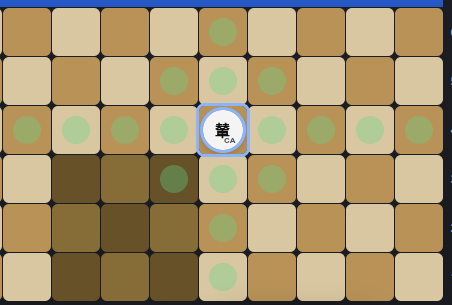
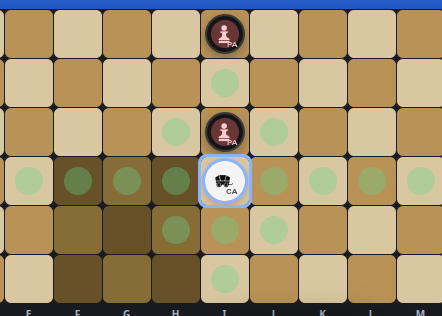
visual bug solved and ai improved

diff --git a/engine/ai/memory.js b/engine/ai/memory.js
@@ -1,4 +1,5 @@
 import { SIDE, isPalaceSquare, onBank } from '../constants.js';
+import { findKings } from '../rules/board.js';
 
 const LEARNING_RATE      = 0.12;
 const MAX_MEMORY_SIZE    = 3000;
@@ -18,17 +19,111 @@ export function extractFeatures(state, side) {
   let curseActive = state.palaceCurse?.[side]?.active ? 1 : 0;
   let enemyCurseActive = state.palaceCurse?.[enemy]?.active ? 1 : 0;
 
+  let ownPieces = 0, enemyPieces = 0;
+  let ownCrossed = 0, enemyCrossed = 0;
+  let ownArchers = 0, enemyArchers = 0;
+  let ownHeavy = 0, enemyHeavy = 0;
+  let ownTowers = 0, enemyTowers = 0;
+  let ownCannons = 0, enemyCannons = 0;
+  let kingOutsidePalace = 0, enemyKingOutsidePalace = 0;
+  let ownCenterCtrl = 0, enemyCenterCtrl = 0;
+  let ownPalaceDef = 0, enemyPalaceDef = 0;
+  let ownPromoted = 0, enemyPromoted = 0;
+  let ownAdvPawns = 0, enemyAdvPawns = 0;
+  let ownNearPromo = 0, enemyNearPromo = 0;
+  let ownKingCol = -1, enemyKingCol = -1;
+  let ownKingRow = -1, enemyKingRow = -1;
+
+  // Kings facing (flying general rule): same row/col/diag with clear line
+  let kingsFacing = 0;
+  const kings = findKings(board);
+  if (kings?.[side] && kings?.[enemy]) {
+    const k1 = kings[side], k2 = kings[enemy];
+    ownKingRow = k1.r; ownKingCol = k1.c;
+    enemyKingRow = k2.r; enemyKingCol = k2.c;
+    const dr = Math.sign(k2.r - k1.r);
+    const dc = Math.sign(k2.c - k1.c);
+    const sameRow = dr === 0 && dc !== 0;
+    const sameCol = dc === 0 && dr !== 0;
+    const sameDiag = dr !== 0 && dc !== 0 && Math.abs(k2.r - k1.r) === Math.abs(k2.c - k1.c);
+    if (sameRow || sameCol || sameDiag) {
+      let clear = true;
+      let cr = k1.r + dr, cc = k1.c + dc;
+      while (cr !== k2.r || cc !== k2.c) {
+        if (board[cr]?.[cc]) { clear = false; break; }
+        cr += dr; cc += dc;
+      }
+      if (clear) kingsFacing = 1;
+    }
+  }
+
+  // Reserve composition tracking
+  let ownTowersInReserve = 0, ownGeneralsInReserve = 0, ownPawnsInReserve = 0;
+  let enemyTowersInReserve = 0, enemyGeneralsInReserve = 0, enemyPawnsInReserve = 0;
+  for (const p of state.reserves[side] || []) {
+    if (p.type === 'tower') ownTowersInReserve++;
+    else if (p.type === 'general') ownGeneralsInReserve++;
+    else if (p.type === 'pawn' || p.type === 'crossbow') ownPawnsInReserve++;
+  }
+  for (const p of state.reserves[enemy] || []) {
+    if (p.type === 'tower') enemyTowersInReserve++;
+    else if (p.type === 'general') enemyGeneralsInReserve++;
+    else if (p.type === 'pawn' || p.type === 'crossbow') enemyPawnsInReserve++;
+  }
+
   for (let r = 0; r < 13; r++) {
     for (let c = 0; c < 13; c++) {
       const p = board[r][c];
       if (!p) continue;
       if (p.side === side) {
-        if (p.type === 'archer' && onBank(side, r)) archerOnBank++;
-        if (isPalaceSquare(r, c, enemy)) palacePressure++;
+        ownPieces++;
+        if (p.type === 'king') {
+          if (!isPalaceSquare(r, c, side)) kingOutsidePalace = 1;
+        } else {
+          if (p.type === 'archer') { ownArchers++; if (onBank(side, r)) archerOnBank++; }
+          else if (p.type === 'tower') ownTowers++;
+          else if (p.type === 'cannon') ownCannons++;
+          else if (['queen','general'].includes(p.type)) ownHeavy++;
+          const crossed = side === SIDE.BLACK ? (r <= 5) : (r >= 7);
+          if (crossed) ownCrossed++;
+          if (isPalaceSquare(r, c, enemy)) palacePressure++;
+          const centerDist = Math.abs(r-6) + Math.abs(c-6);
+          if (centerDist <= 4) ownCenterCtrl++;
+          if (isPalaceSquare(r, c, side)) ownPalaceDef++;
+          if (p.promoted) ownPromoted++;
+          if (p.type === 'pawn' && !p.promoted) {
+            const fromOwn = side === SIDE.WHITE ? r : 12 - r;
+            if (fromOwn >= 5) ownAdvPawns++;
+            const inPromoZone = side === SIDE.BLACK ? r >= 10 : r <= 2;
+            if (inPromoZone) ownNearPromo++;
+          }
+        }
+      } else {
+        enemyPieces++;
+        if (p.type === 'king') {
+          if (!isPalaceSquare(r, c, enemy)) enemyKingOutsidePalace = 1;
+        } else {
+          if (p.type === 'archer') enemyArchers++;
+          else if (p.type === 'tower') enemyTowers++;
+          else if (p.type === 'cannon') enemyCannons++;
+          else if (['queen','general'].includes(p.type)) enemyHeavy++;
+          const crossed = enemy === SIDE.BLACK ? (r <= 5) : (r >= 7);
+          if (crossed) enemyCrossed++;
+          const centerDist = Math.abs(r-6) + Math.abs(c-6);
+          if (centerDist <= 4) enemyCenterCtrl++;
+          if (isPalaceSquare(r, c, enemy)) enemyPalaceDef++;
+          if (p.promoted) enemyPromoted++;
+          if (p.type === 'pawn' && !p.promoted) {
+            const fromOwn = enemy === SIDE.WHITE ? r : 12 - r;
+            if (fromOwn >= 5) enemyAdvPawns++;
+            const inPromoZone = enemy === SIDE.BLACK ? r >= 10 : r <= 2;
+            if (inPromoZone) enemyNearPromo++;
+          }
+        }
       }
     }
   }
-  return `ap:${archerOnBank}|pp:${Math.min(palacePressure,3)}|r:${reserveCount}|er:${enemyReserveCount}|pt:${palaceTaken}|ept:${enemyPalaceTaken}|cu:${curseActive}|ecu:${enemyCurseActive}`;
+  return `ap:${archerOnBank}|pp:${Math.min(palacePressure,3)}|r:${reserveCount}|er:${enemyReserveCount}|pt:${palaceTaken}|ept:${enemyPalaceTaken}|cu:${curseActive}|ecu:${enemyCurseActive}|ko:${kingOutsidePalace}|eko:${enemyKingOutsidePalace}|ac:${ownArchers}|eac:${enemyArchers}|hv:${Math.min(ownHeavy,3)}|ehv:${Math.min(enemyHeavy,3)}|xc:${Math.min(ownCrossed,5)}|exc:${Math.min(enemyCrossed,5)}|cc:${Math.min(ownCenterCtrl,3)}|ecc:${Math.min(enemyCenterCtrl,3)}|pd:${Math.min(ownPalaceDef,3)}|epd:${Math.min(enemyPalaceDef,3)}|kf:${kingsFacing}|tw:${Math.min(ownTowers,2)}|etw:${Math.min(enemyTowers,2)}|cn:${Math.min(ownCannons,2)}|ecn:${Math.min(enemyCannons,2)}|pro:${Math.min(ownPromoted,3)}|epro:${Math.min(enemyPromoted,3)}|apw:${Math.min(ownAdvPawns,3)}|eapw:${Math.min(enemyAdvPawns,3)}|npz:${ownNearPromo}|enpz:${enemyNearPromo}|rtr:${ownTowersInReserve}|rgr:${ownGeneralsInReserve}|rpr:${ownPawnsInReserve}|ertr:${enemyTowersInReserve}|ergr:${enemyGeneralsInReserve}|erpr:${enemyPawnsInReserve}|krc:${ownKingCol}|ekc:${enemyKingCol}`;
 }
 
 export class AdaptiveMemory {

diff --git a/engine/ai/evaluation.js b/engine/ai/evaluation.js
@@ -1,5 +1,5 @@
 import { dbg } from '../debug/debug.js';
-import { SIDE, isPalaceSquare, opponent, onBank } from '../constants.js';
+import { SIDE, isPalaceSquare, opponent, onBank, isOwnSide, inBounds } from '../constants.js';
 import { isKingInCheck } from '../rules/index.js';
 import { adaptiveMemory, extractFeatures } from './memory.js';
 import { pieceValue } from './moves.js';
@@ -149,7 +149,7 @@ function reserveValue(state, side) {
   return state.reserves[side].reduce((s, p) => {
     const urgency = p.type === 'tower'    ? 1.6
                   : p.type === 'general'  ? 1.6
-                  : p.type === 'crossbow' ? 1.2
+                  : p.type === 'crossbow' ? 1.4
                   : 1.0; // pawn
     return s + pieceValue(p) * urgency;
   }, 0);
@@ -360,6 +360,7 @@ export function evaluate(state, hash, precomputedMaps = null) {
 export function buildAttackMap(board, side) {
   const attackMap = new Map(), mobilityCount = { total: 0 }, byPiece = new Map();
   let kingPos = null;
+  let enemyKingPos = null;
   const mark = (r, c, fromKey) => {
     if (r < 0 || r >= 13 || c < 0 || c >= 13) return;
     const k = `${r},${c}`; attackMap.set(k, (attackMap.get(k) ?? 0) + 1); mobilityCount.total++;
@@ -369,41 +370,72 @@ export function buildAttackMap(board, side) {
   for (let r = 0; r < 13; r++) {
     for (let c = 0; c < 13; c++) {
       const p = board[r][c];
-      if (!p || p.side !== side) continue;
-      const fk = `${r},${c}`; if (p.type === 'king') kingPos = { r, c };
-      const ray = (dr, dc) => { let nr = r+dr, nc = c+dc; while (nr>=0&&nr<13&&nc>=0&&nc<13) { mark(nr,nc,fk); if (board[nr][nc]) break; nr+=dr; nc+=dc; } };
-      const jump = deltas => { for (const [dr,dc] of deltas) mark(r+dr, c+dc, fk); };
-      switch (p.type) {
-        case 'queen': ray(1,0); ray(-1,0); ray(0,1); ray(0,-1); ray(1,1); ray(1,-1); ray(-1,1); ray(-1,-1); break;
-        case 'tower':
-          if (p.promoted) {
-            for (const [dr,dc] of [[0,1],[0,-1],[-1,1],[1,-1]]) {
-              let nr = r+dr, nc = c+dc;
-              while (nr>=0&&nr<13&&nc>=0&&nc<13) { mark(nr,nc,fk); if (board[nr][nc]) break; nr+=dr; nc+=dc; }
+      if (!p) continue;
+      if (p.side === side) {
+        const fk = `${r},${c}`; if (p.type === 'king') kingPos = { r, c };
+        const ray = (dr, dc) => { let nr = r+dr, nc = c+dc; while (nr>=0&&nr<13&&nc>=0&&nc<13) { mark(nr,nc,fk); if (board[nr][nc]) break; nr+=dr; nc+=dc; } };
+        const jump = deltas => { for (const [dr,dc] of deltas) mark(r+dr, c+dc, fk); };
+        switch (p.type) {
+          case 'queen': ray(1,0); ray(-1,0); ray(0,1); ray(0,-1); ray(1,1); ray(1,-1); ray(-1,1); ray(-1,-1); break;
+          case 'tower':
+            if (p.promoted) {
+              for (const [dr,dc] of [[0,1],[0,-1],[-1,1],[1,-1]]) {
+                let nr = r+dr, nc = c+dc;
+                while (nr>=0&&nr<13&&nc>=0&&nc<13) { mark(nr,nc,fk); if (board[nr][nc]) break; nr+=dr; nc+=dc; }
+              }
+            } else {
+              ray(1,0); ray(-1,0); ray(0,1); ray(0,-1);
             }
-          } else {
-            ray(1,0); ray(-1,0); ray(0,1); ray(0,-1);
+            break;
+          case 'priest': ray(1,1); ray(1,-1); ray(-1,1); ray(-1,-1); mark(r+f,c,fk); mark(r-f,c,fk); break;
+          case 'cannon': {
+            for (const [dr,dc] of [[1,0],[-1,0],[0,1],[0,-1]]) {
+              let seen=0, nr=r+dr, nc=c+dc;
+              while (nr>=0&&nr<13&&nc>=0&&nc<13) {
+                if (!board[nr][nc]) { if (seen===0) mark(nr,nc,fk); }
+                else { seen++; if (seen===2) { mark(nr,nc,fk); break; } }
+                nr+=dr; nc+=dc;
+              }
+            } break;
           }
-          break;
-        case 'priest': ray(1,1); ray(1,-1); ray(-1,1); ray(-1,-1); mark(r+f,c,fk); mark(r-f,c,fk); break;
-        case 'cannon': {
-          for (const [dr,dc] of [[1,0],[-1,0],[0,1],[0,-1]]) {
-            let seen=0, nr=r+dr, nc=c+dc;
-            while (nr>=0&&nr<13&&nc>=0&&nc<13) {
-              if (!board[nr][nc]) { if (seen===0) mark(nr,nc,fk); }
-              else { seen++; if (seen===2) { mark(nr,nc,fk); break; } }
-              nr+=dr; nc+=dc;
-            }
-          } break;
+          case 'king': for (let dr=-1;dr<=1;dr++) for (let dc=-1;dc<=1;dc++) { if (dr===0&&dc===0) continue; for (let step=1;step<=2;step++) { const nr=r+dr*step, nc=c+dc*step; if (nr<0||nr>=13||nc<0||nc>=13) break; mark(nr,nc,fk); if (board[nr][nc]) break; } } break;
+          case 'general': jump([[2,1],[2,-1],[-2,1],[-2,-1],[1,2],[1,-2],[-1,2],[-1,-2]]); for (let i=1;i<=4;i++) { mark(r+i,c+i,fk); mark(r+i,c-i,fk); mark(r-i,c+i,fk); mark(r-i,c-i,fk); } break;
+          case 'horse': jump([[2,1],[2,-1],[-2,1],[-2,-1],[1,2],[1,-2],[-1,2],[-1,-2]]); break;
+          case 'elephant': jump([[f,0],[f,-1],[f,1],[-f,-1],[-f,1]]); break;
+          case 'pawn': mark(r+f,c,fk); mark(r+f,c-1,fk); mark(r+f,c+1,fk); mark(r,c-1,fk); mark(r,c+1,fk); break;
+          case 'archer': for (const [dr,dc] of [[3,1],[3,-1],[-3,1],[-3,-1],[1,3],[1,-3],[-1,3],[-1,-3]]) { const nr=r+dr, nc=c+dc; if (!inBounds(nr,nc)) continue; if (!isOwnSide(side, nr)) continue; mark(nr,nc,fk); } if (onBank(side,r)) { mark(r+f,c-1,fk); mark(r+f,c,fk); mark(r+f,c+1,fk); } break;
+          case 'carriage': for (const [dr,dc] of [[1,0],[-1,0],[0,1],[0,-1],[1,1],[1,-1],[-1,1],[-1,-1]]) for (let step=1; step<=(Math.abs(dr)+Math.abs(dc)===1?4:1); step++) { const nr=r+dr*step, nc=c+dc*step; if (!inBounds(nr,nc)) break; if (!isOwnSide(side, nr)) break; mark(nr,nc,fk); if (board[nr][nc]) break; } break;
+          case 'crossbow': jump([[1,1],[1,-1],[-1,1],[-1,-1]]); mark(r+f,c,fk); break;
         }
-        case 'king': for (let dr=-1;dr<=1;dr++) for (let dc=-1;dc<=1;dc++) { if (dr===0&&dc===0) continue; for (let step=1;step<=2;step++) { const nr=r+dr*step, nc=c+dc*step; if (nr<0||nr>=13||nc<0||nc>=13) break; mark(nr,nc,fk); if (board[nr][nc]) break; } } break;
-        case 'general': jump([[2,1],[2,-1],[-2,1],[-2,-1],[1,2],[1,-2],[-1,2],[-1,-2]]); for (let i=1;i<=4;i++) { mark(r+i,c+i,fk); mark(r+i,c-i,fk); mark(r-i,c+i,fk); mark(r-i,c-i,fk); } break;
-        case 'horse': jump([[2,1],[2,-1],[-2,1],[-2,-1],[1,2],[1,-2],[-1,2],[-1,-2]]); break;
-        case 'elephant': jump([[f,0],[f,-1],[f,1],[-f,-1],[-f,1]]); break;
-        case 'pawn': mark(r+f,c,fk); mark(r+f,c-1,fk); mark(r+f,c+1,fk); mark(r,c-1,fk); mark(r,c+1,fk); break;
-        case 'archer': jump([[3,1],[3,-1],[-3,1],[-3,-1],[1,3],[1,-3],[-1,3],[-1,-3]]); if (onBank(side,r)) { mark(r+f,c-1,fk); mark(r+f,c,fk); mark(r+f,c+1,fk); } break;
-        case 'carriage': for (const [dr,dc] of [[1,0],[-1,0],[0,1],[0,-1],[1,1],[-1,-1]]) for (let step=1; step<=(Math.abs(dr)+Math.abs(dc)===1?4:1); step++) mark(r+dr*step, c+dc*step, fk); break;
-        case 'crossbow': jump([[1,1],[1,-1],[-1,1],[-1,-1]]); mark(r+f,c,fk); break;
+      } else if (p.type === 'king') {
+        enemyKingPos = { r, c };
+      }
+    }
+  }
+  // King confrontation: if both kings face each other on a clear line
+  // (same row, same column, or same diagonal), the king "attacks" the enemy king square.
+  // ES: Confrontación de reyes: si ambos reyes se enfrentan en línea despejada
+  // (misma fila, misma columna o misma diagonal), el rey "ataca" la casilla del rey enemigo.
+  if (kingPos && enemyKingPos) {
+    const dr = Math.sign(enemyKingPos.r - kingPos.r);
+    const dc = Math.sign(enemyKingPos.c - kingPos.c);
+    const sameRow = dr === 0 && dc !== 0;
+    const sameCol = dc === 0 && dr !== 0;
+    const sameDiag = dr !== 0 && dc !== 0 && Math.abs(enemyKingPos.r - kingPos.r) === Math.abs(enemyKingPos.c - kingPos.c);
+    if (sameRow || sameCol || sameDiag) {
+      const clashKey = `${kingPos.r},${kingPos.c}`;
+      let clear = true;
+      const rr = Math.sign(enemyKingPos.r - kingPos.r);
+      const cc = Math.sign(enemyKingPos.c - kingPos.c);
+      let cr = kingPos.r + rr;
+      let cc2 = kingPos.c + cc;
+      while (cr !== enemyKingPos.r || cc2 !== enemyKingPos.c) {
+        if (board[cr][cc2]) { clear = false; break; }
+        cr += rr;
+        cc2 += cc;
+      }
+      if (clear) {
+        mark(enemyKingPos.r, enemyKingPos.c, clashKey);
       }
     }
   }

diff --git a/src/ui/piece-style-selector.js b/src/ui/piece-style-selector.js
@@ -152,17 +152,19 @@ const SVG = {
     </g>
   </svg>`,
 
-  pawn: `<svg viewBox="0 0 26 26" fill="none" xmlns="http://www.w3.org/2000/svg">
-    <!-- Head -->
-    <circle cx="13" cy="7" r="3.5" fill="currentColor" opacity=".85"/>
-    <!-- Neck -->
-    <rect x="11.5" y="10" width="3" height="2.5" fill="currentColor" opacity=".7"/>
-    <!-- Body -->
-    <path d="M8 22 L9 14 Q13 12 17 14 L18 22 Z" fill="currentColor" opacity=".75"/>
-    <!-- Base -->
-    <rect x="7" y="21" width="12" height="2.5" rx="1.2" fill="currentColor" opacity=".65"/>
+  pawn: `<svg version="1.1" xmlns="http://www.w3.org/2000/svg" viewBox="-64 -64 640 640" preserveAspectRatio="xMidYMid meet">
+    <style type="text/css">
+      .st0{fill:currentColor;}
+    </style>
+    <g>
+      <path class="st0" d="M256,161.408c44.568,0,80.71-36.13,80.71-80.698C336.71,36.142,300.567,0,256,0
+        c-44.568,0-80.698,36.142-80.698,80.71C175.302,125.278,211.431,161.408,256,161.408z"/>
+      <path class="st0" d="M113.114,431.973h285.783c0,0,16.267-3.756,16.267-22.57c0-28.216-50.702-46.641-63.92-56.664
+        c-61.577-46.726-57.334-145.58,18.023-145.58v-29.74H142.745v29.74c75.345,0,79.588,98.854,18.01,145.58
+        c-13.218,10.023-63.92,28.448-63.92,56.664C96.836,428.217,113.114,431.973,113.114,431.973z"/>
+      <polygon class="st0" points="113.114,451.8 97.544,478.028 97.544,512 414.456,512 414.456,478.028 398.897,451.8 	"/>
+    </g>
   </svg>`,
-
   crossbow: `<svg version="1.1" id="Layer_1" xmlns="http://www.w3.org/2000/svg" xmlns:xlink="http://www.w3.org/1999/xlink" viewBox="-64 -64 640 640" xml:space="preserve">
     <g fill="currentColor">
       <g>

diff --git a/engine/rules/check.js b/engine/rules/check.js
@@ -121,8 +121,12 @@ export function isSquareAttacked(board, r, c, bySide, state) {
   const enemyKing = kings[bySide];
   const myKing = kings[opponent(bySide)];
   if (enemyKing && myKing) {
-    const inPalace = isPalaceSquare(enemyKing.r, enemyKing.c, bySide) || isPalaceSquare(myKing.r, myKing.c, opponent(bySide));
-    if (inPalace && enemyKing.c === myKing.c) {
+    const dr = Math.sign(myKing.r - enemyKing.r);
+    const dc = Math.sign(myKing.c - enemyKing.c);
+    const sameRow = dr === 0 && dc !== 0;
+    const sameCol = dc === 0 && dr !== 0;
+    const sameDiag = dr !== 0 && dc !== 0 && Math.abs(myKing.r - enemyKing.r) === Math.abs(myKing.c - enemyKing.c);
+    if (sameRow || sameCol || sameDiag) {
       const between = pathSquares(enemyKing.r, enemyKing.c, myKing.r, myKing.c);
       if (!between.some(([rr, cc]) => board[rr][cc])) return true;
     }

diff --git a/src/ui/editor.js b/src/ui/editor.js
@@ -37,8 +37,8 @@ function createEditorPanel() {
   panel.innerHTML = `
     <div style="color:#8ab4ff;font-weight:700;margin-bottom:8px;font-size:12px">🎨 Board Editor</div>
     <div style="display:flex;gap:4px;margin-bottom:8px">
-      <button class="ed-side" data-side="black" style="flex:1;padding:4px;border-radius:6px;border:1px solid #1e2535;background:rgba(192,132,252,.15);color:#c084fc;cursor:pointer;font-weight:700">⚫ Black</button>
       <button class="ed-side" data-side="white" style="flex:1;padding:4px;border-radius:6px;border:1px solid #1e2535;background:rgba(101,211,138,.15);color:#65d38a;cursor:pointer;font-weight:700">⚪ White</button>
+      <button class="ed-side" data-side="black" style="flex:1;padding:4px;border-radius:6px;border:1px solid #1e2535;background:rgba(192,132,252,.15);color:#c084fc;cursor:pointer;font-weight:700">⚫ Black</button>
     </div>
     <div style="display:grid;grid-template-columns:1fr 1fr;gap:3px;margin-bottom:8px" id="edPalette">
       ${PIECE_TYPES.map(t => {
@@ -65,7 +65,7 @@ function createEditorPanel() {
   document.body.appendChild(panel);
   editorPanel = panel;
 
-  let activeSide = SIDE.BLACK;
+  let activeSide = SIDE.WHITE;
   panel.querySelectorAll('.ed-side').forEach(btn => {
     btn.addEventListener('click', () => {
       activeSide = btn.dataset.side;
@@ -74,7 +74,7 @@ function createEditorPanel() {
       updateStatus();
     });
   });
-  panel.querySelector('[data-side="black"]').style.borderColor = '#c084fc';
+  panel.querySelector('[data-side="white"]').style.borderColor = '#65d38a';
 
   let activeType = 'pawn';
   panel.querySelectorAll('.ed-piece').forEach(btn => {

diff --git a/src/ui/gameplay.js b/src/ui/gameplay.js
@@ -334,6 +334,7 @@ async function runBotTurn() {
 
 export async function init() {
   await loadAdaptiveMemory();
+  resetGame(state);
   emptyBoard();
   V.totalMoves = 0;
   V.currentGameNotation = [];

diff --git a/styles.css b/styles.css
@@ -388,6 +388,7 @@ select.button {
   display: grid;
   place-items: center;
   padding: 16px;
+  z-index: 999;
 }
 
 .modalCard {